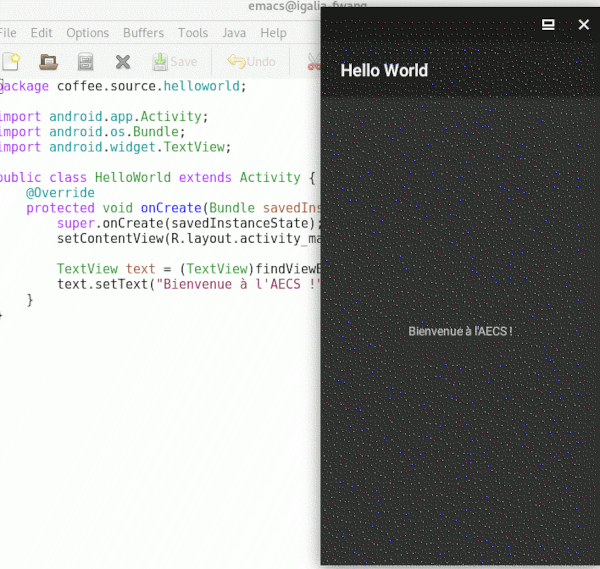
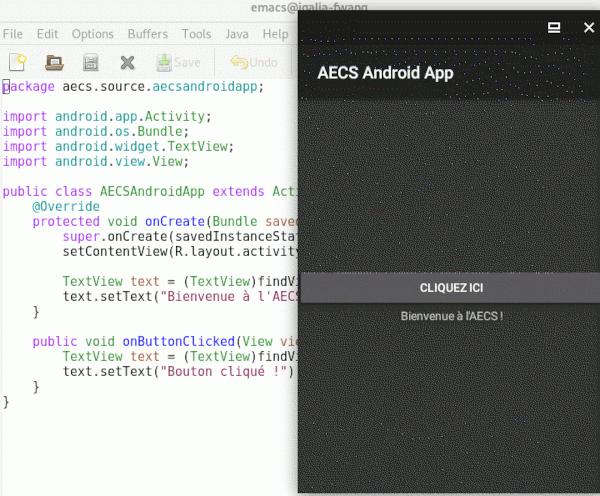
Add AECS-android-app

Changed region(s): [[0.0, 0.0, 1.0, 1.0], [0.84, 0.0907, 0.87, 0.121], [0.03, 0.5141, 0.06, 0.5444]]

diff --git a/java-application-mobile/AECS-android-app/src/aecs/source/aecsandroidapp/AECSAndroidApp.java b/java-application-mobile/AECS-android-app/src/aecs/source/aecsandroidapp/AECSAndroidApp.java
@@ -1,0 +1,22 @@
+package aecs.source.aecsandroidapp;
+
+import android.app.Activity;
+import android.os.Bundle;
+import android.widget.TextView;
+import android.view.View;
+
+public class AECSAndroidApp extends Activity {
+    @Override
+    protected void onCreate(Bundle savedInstanceState) {
+        super.onCreate(savedInstanceState);
+        setContentView(R.layout.activity_main);
+
+        TextView text = (TextView)findViewById(R.id.my_text);
+        text.setText("Bienvenue à l'AECS !");
+    }
+
+    public void onButtonClicked(View view) {
+        TextView text = (TextView)findViewById(R.id.my_text);
+        text.setText("Bouton cliqué !");
+    }
+}

diff --git a/cpp-interface-graphique/main.cpp b/cpp-interface-graphique/main.cpp
@@ -20,7 +20,7 @@ private:
 };
 
 Frame::Frame()
-  : wxFrame(NULL, wxID_ANY, "Mon Application") {
+  : wxFrame(NULL, wxID_ANY, "Application AECS") {
   // Create File menu.
   wxMenu* menuFile = new wxMenu;
   menuFile->AppendSeparator();
@@ -50,14 +50,14 @@ void Frame::OnExit(wxCommandEvent& event) {
   Close(true);
 }
 
-class Application : public wxApp {
+class ApplicationAECS : public wxApp {
 public:
   virtual bool OnInit();
 };
 
-wxIMPLEMENT_APP(Application);
+wxIMPLEMENT_APP(ApplicationAECS);
 
-bool Application::OnInit() {
+bool ApplicationAECS::OnInit() {
   Frame *frame = new Frame;
   frame->Show(true);
   return true;

diff --git a/java-application-mobile/README.md b/java-application-mobile/README.md
@@ -13,8 +13,10 @@ Dans cette session, nous verrons un aperçu de concepts de programmation à l’
 ## Déroulement possible de la session
 
 0. Introduction.
-1. Compiler [hello world](https://gitlab.com/Matrixcoffee/hello-world-debian-android/), l'installer et l'executer dans Anbox
-2. Modifier le pour ajouter des widgets, actions etc
+1. Compiler `AECS-android-app`, l'installer et l'executer dans Anbox
+2. Étudier [src/aecs/source/aecsandroidapp/AECSAndroidApp.java](https://github.com/AECS-17/AECS-informatique/blob/master/java-application-mobile/src/aecs/source/aecsandroidapp/AECSAndroidApp.java). Modifier le pour compter combien de fois le bouton a été cliqué et mettre a jour le texte.
+3. Étudier [res/layout/activity_main.xml](https://github.com/AECS-17/AECS-informatique/blob/master/java-application-mobile/res/layout/activity_main.xml) et ajouter d'autres boutons, textes. Ajouter d'autres actions.
+4. Selon le temps disponible, plus de widgets, actions etc
 
 🚧 Trouver plus idées à partir de [la documentation Android](https://developer.android.com/docs/)...
 

diff --git a/java-application-mobile/AECS-android-app/README.md b/java-application-mobile/AECS-android-app/README.md
@@ -1,0 +1,11 @@
+# AECS Android App
+
+This is based on [hello-world-debian-android](https://gitlab.com/Matrixcoffee/hello-world-debian-android/).
+
+## Build & Install
+
+Run 'make'. If everything goes well, you will end up with aecsandroidapp.apk' in the root directory of the project, which you can transfer to your phone and install in any way you see fit, for example using `adb install aecsandroidapp.apk`.
+
+Using `anbox`, you can launch the application with
+
+    anbox launch --package=aecs.source.aecsandroidapp --component=aecs.source.aecsandroidapp.AECSAndroidApp
